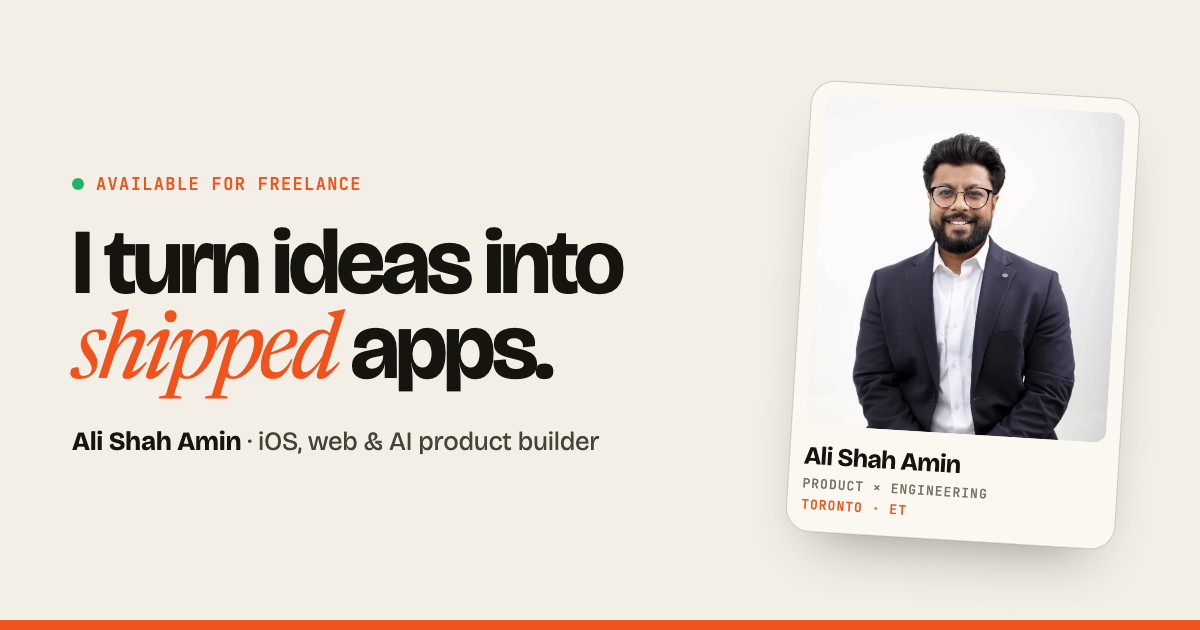
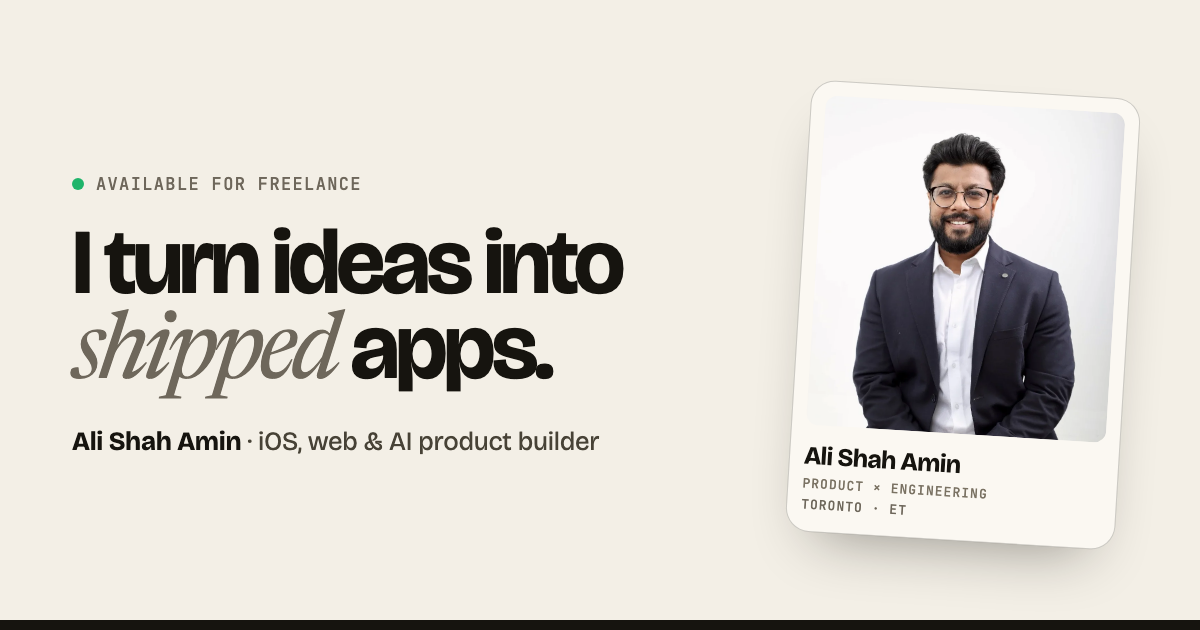
Swap the orange accent for a neutral taupe palette
- Accent is now warm taupe (#6e675b light / #b3ab9d dark)
- Primary buttons are solid ink; inverted inside the dark contact block
- Italic highlight words go grey, echoing the Seline site's two-tone type
- Neutral 'in development' dot, favicon dot and social preview image

diff --git a/styles.css b/styles.css
@@ -1,6 +1,6 @@
 /* ============================================================
    Ali Shah Amin — portfolio
-   Warm paper + ink, one signal-orange accent.
+   Warm paper + ink, with a quiet taupe accent.
    ============================================================ */
 
 :root {
@@ -12,8 +12,8 @@
   --muted: #7a7263;
   --line: rgba(22, 20, 15, 0.12);
   --line-strong: rgba(22, 20, 15, 0.22);
-  --accent: #f0531c;
-  --accent-ink: #ffffff;
+  --accent: #6e675b;
+  --accent-ink: #fbf8f2;
   --accent-soft: color-mix(in oklab, var(--accent) 14%, transparent);
   --shadow: 0 1px 0 rgba(22, 20, 15, 0.04), 0 18px 40px -22px rgba(22, 20, 15, 0.35);
   --grain-opacity: 0.22;
@@ -41,8 +41,8 @@
     --muted: #8c8474;
     --line: rgba(239, 233, 221, 0.1);
     --line-strong: rgba(239, 233, 221, 0.2);
-    --accent: #ff6a33;
-    --accent-ink: #140c07;
+    --accent: #b3ab9d;
+    --accent-ink: #11100e;
     --shadow: 0 1px 0 rgba(0, 0, 0, 0.3), 0 22px 50px -24px rgba(0, 0, 0, 0.8);
     --grain-opacity: 0.2;
     color-scheme: dark;
@@ -58,8 +58,8 @@
   --muted: #8c8474;
   --line: rgba(239, 233, 221, 0.1);
   --line-strong: rgba(239, 233, 221, 0.2);
-  --accent: #ff6a33;
-  --accent-ink: #140c07;
+  --accent: #b3ab9d;
+  --accent-ink: #11100e;
   --shadow: 0 1px 0 rgba(0, 0, 0, 0.3), 0 22px 50px -24px rgba(0, 0, 0, 0.8);
   --grain-opacity: 0.2;
   color-scheme: dark;
@@ -185,8 +185,8 @@ em { font-family: var(--font-serif); font-style: italic; font-weight: 400; lette
 .btn:hover svg { transform: translateX(3px); }
 .btn:active { transform: translateY(0); }
 
-.btn-accent { --btn-bg: var(--accent); --btn-fg: var(--accent-ink); box-shadow: 0 10px 24px -12px var(--accent); }
-.btn-accent:hover { box-shadow: 0 16px 30px -12px var(--accent); }
+.btn-accent { --btn-bg: var(--ink); --btn-fg: var(--bg); box-shadow: 0 10px 24px -14px rgba(22, 20, 15, 0.55); }
+.btn-accent:hover { box-shadow: 0 16px 30px -14px rgba(22, 20, 15, 0.6); }
 .btn-ink { --btn-bg: var(--ink); --btn-fg: var(--bg); }
 .btn-ghost { border-color: var(--line-strong); }
 .btn-ghost:hover { border-color: var(--ink); }
@@ -629,7 +629,7 @@ em { font-family: var(--font-serif); font-style: italic; font-weight: 400; lette
   border-radius: 50%;
   background: #1fb46a;
 }
-.status--building::before { background: #f5a524; }
+.status--building::before { background: var(--muted); }
 
 .project-title-row { display: flex; align-items: center; gap: 12px; margin-top: 12px; }
 .project-icon {
@@ -1010,9 +1010,10 @@ em { font-family: var(--font-serif); font-style: italic; font-weight: 400; lette
   line-height: 0.9;
   letter-spacing: -0.05em;
 }
-.contact-title em { color: var(--accent); }
+.contact-title em { color: color-mix(in oklab, var(--bg) 55%, var(--ink)); }
 .contact-lede { margin-top: 26px; max-width: 34rem; font-size: 1.15rem; opacity: 0.78; }
 .contact-actions { margin-top: 36px; display: flex; flex-wrap: wrap; gap: 12px; }
+.contact .btn-accent { --btn-bg: var(--bg); --btn-fg: var(--ink); box-shadow: none; }
 .contact .btn-ghost { --btn-fg: var(--bg); border-color: color-mix(in oklab, var(--bg) 30%, transparent); }
 .contact .btn-ghost:hover { border-color: var(--bg); }
 #booking-toggle svg { transition: transform 0.3s var(--ease); }

diff --git a/index.html b/index.html
@@ -32,7 +32,7 @@
   <link rel="preconnect" href="https://fonts.gstatic.com" crossorigin />
   <link href="https://fonts.googleapis.com/css2?family=Bricolage+Grotesque:opsz,wght@12..96,300..800&family=Geist:wght@400;500;600;700&family=JetBrains+Mono:wght@400;500&family=Newsreader:ital,opsz,wght@1,6..72,400;1,6..72,500&display=swap" rel="stylesheet" />
   <link rel="preload" as="image" href="assets/img/profile.webp" />
-  <link rel="stylesheet" href="styles.css?v=20260928b" />
+  <link rel="stylesheet" href="styles.css?v=20260928d" />
   <script src="content.js?v=20260928c" defer></script>
   <script src="app.js?v=20260928b" defer></script>
   <script defer src="https://cdn.vercel-insights.com/v1/script.js"></script>
